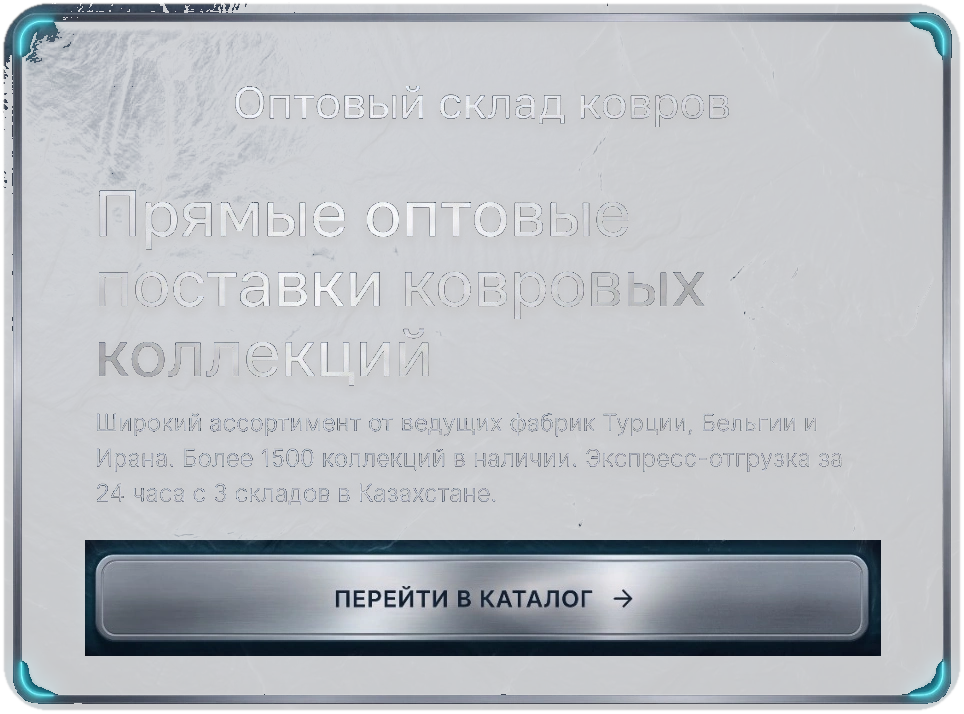
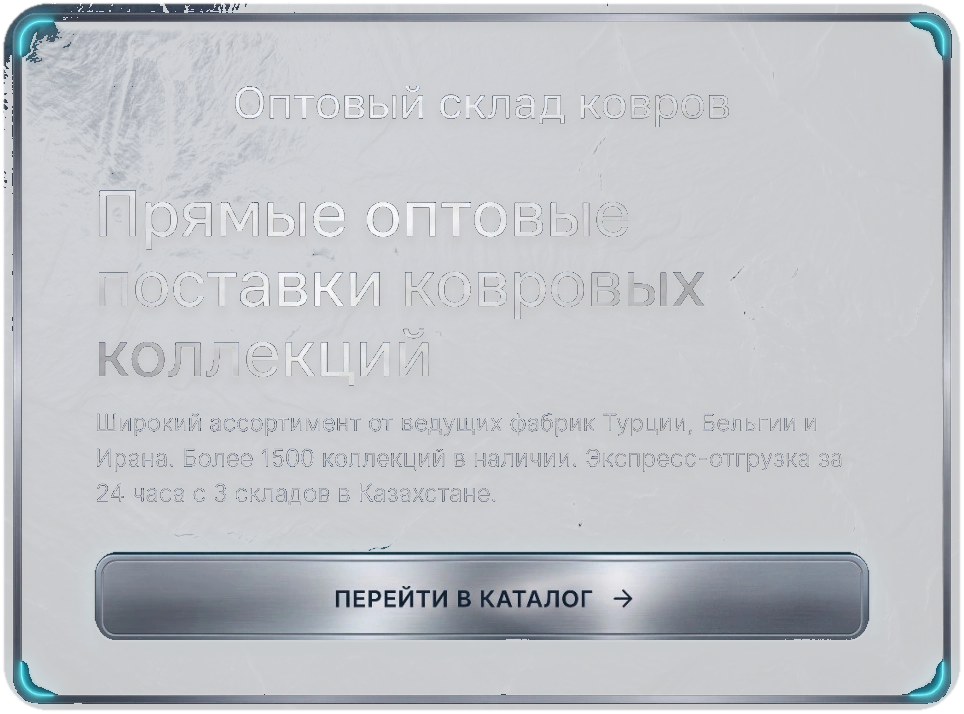
fix(ui): normalize mobile button proportions to 44px slim titanium and remove bright blue border around desktop card CTA

Changed region(s): [[0.0622, 0.7395, 0.9336, 0.9244]]

diff --git a/src/components/home/TechnoLuxuryButton.tsx b/src/components/home/TechnoLuxuryButton.tsx
@@ -12,12 +12,12 @@ interface TechnoLuxuryButtonProps {
 
 /**
  * TechnoLuxuryButton
- * Implements the exact "Техно-Люкс" (Techno-Luxury Interface) design system from reference:
- * - Deep midnight navy outer chassis with atmospheric ambient shadow
- * - Outer sculpted polished steel bezel with top specular chamfer
- * - Recessed electric cyan neon trim groove (#00FBFF) with intense dual-sided glow
- * - Tactile central brushed steel plate with horizontal anisotropic texture
- * - Crisp stamped dark graphite typography (#1A1F2B) with letterpress bevel
+ * Normalized luxury industrial ergonomics (Apple Titanium / Swiss Horology standards):
+ * - Slim 44px mobile height (balanced visual weight, no bulky aggressive bumper)
+ * - Proportional 14px rounded geometry
+ * - Hairline 1px radiant cyan inner contour with elegant, non-blinding luminescence
+ * - Tactile brushed steel metal face with physical specular highlight
+ * - Engraved dark graphite typography (#16202E) with stamped letterpress bevel
  */
 export default function TechnoLuxuryButton({
   onClick,
@@ -33,102 +33,63 @@ export default function TechnoLuxuryButton({
       onTouchStart={onTouchStart}
       onTouchMove={onTouchMove}
       onClick={onClick}
-      className={`group relative w-full block cursor-pointer select-none transition-transform duration-200 transform-gpu active:scale-[0.985] hover:scale-[1.008] ${className}`}
+      className={`group relative w-full block cursor-pointer select-none transition-all duration-200 transform-gpu active:scale-[0.985] hover:scale-[1.008] ${className}`}
     >
-      {/* ── 1. Outermost Chassis (Midnight Navy #0A1428 / Dark Graphite Bezel) ── */}
+      {/* ── 1. Slim Titanium Outer Bezel (Hairline chamfer with subtle cyan ambient glow) ── */}
       <div 
-        className="relative rounded-[26px] p-[4px] bg-gradient-to-b from-[#222E42] via-[#111A29] to-[#080D16] shadow-[0_16px_36px_rgba(0,0,0,0.85),0_4px_12px_rgba(0,0,0,0.6)]"
+        className="relative rounded-[16px] p-[1.5px] transition-all duration-300"
+        style={{
+          background: 'linear-gradient(180deg, #4A586E 0%, #1E2838 50%, #0C121D 100%)',
+          boxShadow: '0 4px 14px rgba(0, 0, 0, 0.55), 0 0 10px rgba(0, 251, 255, 0.35)',
+        }}
       >
-        {/* Atmospheric Cyan Aura spilling from behind the chassis */}
+        {/* ── 2. Delicate Hairline Cyan Trim Groove (#00FBFF) ── */}
         <div 
-          aria-hidden="true"
-          className="absolute -inset-1 rounded-[28px] opacity-40 group-hover:opacity-70 transition-opacity duration-300 blur-md pointer-events-none -z-10"
+          className="relative rounded-[14.5px] p-[1px] transition-all duration-300"
           style={{
-            background: 'radial-gradient(ellipse at center, rgba(0, 251, 255, 0.45) 0%, rgba(0, 251, 255, 0) 75%)',
-          }}
-        />
-
-        {/* ── 2. Outer Sculpted Steel Rim (Хромированная / Стальная внешняя фаска) ── */}
-        <div 
-          className="relative rounded-[22px] p-[3.5px] shadow-[inset_0_1px_1.5px_rgba(255,255,255,0.9),inset_0_-2px_4px_rgba(0,0,0,0.6)]"
-          style={{
-            background: 'linear-gradient(180deg, #E6EBF0 0%, #B8C2CC 45%, #6C7684 100%)',
+            background: 'linear-gradient(180deg, #5FFFFF 0%, #00FBFF 50%, #00C8D2 100%)',
+            boxShadow: '0 0 6px rgba(0, 251, 255, 0.5), inset 0 0 3px rgba(0, 251, 255, 0.6)',
           }}
         >
-          {/* Subtle dark recess separator before neon channel */}
-          <div className="relative rounded-[18.5px] p-[1.5px] bg-[#070D18]">
+          {/* Micro dark separator */}
+          <div className="relative rounded-[13.5px] p-[1px] bg-slate-950/80">
             
-            {/* ── 3. Recessed Radiant Cyan Neon Channel (#00FBFF) ── */}
+            {/* ── 3. Tactile Brushed Steel Face (Refined 40px inner height) ── */}
             <div 
-              className="relative rounded-[17px] p-[2.5px] transition-all duration-300"
+              className="relative w-full h-[40px] sm:h-[42px] rounded-[12px] px-4 flex items-center justify-center gap-2 overflow-hidden bg-cover bg-center transition-all duration-200"
               style={{
-                background: 'linear-gradient(180deg, #62FFFF 0%, #00FBFF 48%, #00BCD4 100%)',
-                boxShadow: '0 0 12px #00FBFF, 0 0 24px rgba(0, 251, 255, 0.7), 0 0 40px rgba(0, 251, 255, 0.35), inset 0 0 6px #00FBFF',
+                backgroundImage: "url('/images/brushed_steel_plate.webp')",
+                boxShadow: 'inset 0 1px 1px rgba(255,255,255,0.9), inset 0 -1px 2px rgba(0,0,0,0.35)',
               }}
             >
-              {/* Inner dark chamfer separating glow from brushed face */}
-              <div className="relative rounded-[14.5px] p-[1px] bg-[#09111D]/80">
-                
-                {/* ── 4. Central Brushed Steel Plate (Лицевая панель шлифованной стали) ── */}
-                <div 
-                  className="relative w-full rounded-[13.5px] py-4 px-5 sm:px-6 flex items-center justify-center gap-3 overflow-hidden bg-cover bg-center transition-all duration-300"
+              {/* Interactive light sheen on hover */}
+              <div 
+                aria-hidden="true"
+                className="absolute inset-0 bg-gradient-to-r from-transparent via-white/25 to-transparent -translate-x-full group-hover:translate-x-full transition-transform duration-700 ease-out pointer-events-none" 
+              />
+
+              {/* ── 4. Stamped Dark Graphite Typography (#16202E) ── */}
+              <div className="relative z-10 flex items-center justify-center gap-2 text-center">
+                <span 
+                  className="font-display text-[11px] sm:text-xs font-bold uppercase tracking-[0.14em] text-[#16202E]"
                   style={{
-                    backgroundImage: "url('/images/brushed_steel_plate.webp')",
-                    boxShadow: 'inset 0 1.5px 1.5px rgba(255,255,255,0.95), inset 0 -2px 3px rgba(0,0,0,0.45)',
+                    textShadow: '0 1px 0 rgba(255, 255, 255, 0.85), 0 -0.5px 0 rgba(0, 0, 0, 0.2)',
                   }}
                 >
-                  {/* Subtle anisotropic radial light highlight in center-right */}
-                  <div 
-                    aria-hidden="true"
-                    className="absolute inset-0 pointer-events-none mix-blend-overlay opacity-30"
-                    style={{
-                      background: 'radial-gradient(ellipse at 65% 50%, rgba(255,255,255,0.9) 0%, rgba(255,255,255,0) 65%)',
-                    }}
-                  />
+                  {text}
+                </span>
 
-                  {/* Dynamic interactive light sheen that glides on hover */}
-                  <div 
-                    aria-hidden="true"
-                    className="absolute inset-0 bg-gradient-to-r from-transparent via-white/30 to-transparent -translate-x-full group-hover:translate-x-full transition-transform duration-1000 ease-out pointer-events-none" 
-                  />
-
-                  {/* ── 5. Stamped Dark Graphite Typography (#1A1F2B) ── */}
-                  <div className="relative z-10 flex items-center justify-center gap-2.5 sm:gap-3 text-center">
-                    <div className="flex flex-col items-center">
-                      <span 
-                        className="font-display text-xs sm:text-sm font-extrabold uppercase tracking-[0.16em] text-[#1A1F2B]"
-                        style={{
-                          textShadow: '0 1px 0 rgba(255, 255, 255, 0.9), 0 -0.5px 0 rgba(0, 0, 0, 0.3)',
-                        }}
-                      >
-                        {text}
-                      </span>
-                      {subtext && (
-                        <span 
-                          className="font-mono text-[9px] sm:text-[10px] uppercase tracking-widest text-[#2D3748] mt-0.5"
-                          style={{
-                            textShadow: '0 1px 0 rgba(255, 255, 255, 0.7)',
-                          }}
-                        >
-                          {subtext}
-                        </span>
-                      )}
-                    </div>
-
-                    <div 
-                      className="inline-flex items-center justify-center transition-transform duration-300 group-hover:translate-x-1"
-                      style={{
-                        filter: 'drop-shadow(0 1px 0 rgba(255, 255, 255, 0.9)) drop-shadow(0 -0.5px 0 rgba(0, 0, 0, 0.3))',
-                      }}
-                    >
-                      <ArrowRight className="w-4 h-4 sm:w-4.5 sm:h-4.5 text-[#1A1F2B] stroke-[2.75]" />
-                    </div>
-                  </div>
-
+                <div 
+                  className="inline-flex items-center justify-center transition-transform duration-200 group-hover:translate-x-1"
+                  style={{
+                    filter: 'drop-shadow(0 1px 0 rgba(255, 255, 255, 0.85))',
+                  }}
+                >
+                  <ArrowRight className="w-3.5 h-3.5 text-[#16202E] stroke-[2.75]" />
                 </div>
               </div>
-            </div>
 
+            </div>
           </div>
         </div>
 

diff --git a/src/pages/HomePage.tsx b/src/pages/HomePage.tsx
@@ -104,8 +104,8 @@ export default function HomePage({
       {/* ── Hero Video Banner (Pure animation + Harmonious End-State CTA) ── */}
       <section className="relative w-full bg-slate-950 pt-16 sm:pt-20 lg:pt-24">
         <HeroBannerMedia onNavigate={onNavigate} isReady={isReady} />
-        {/* Mobile Action Bar: Techno-Luxury button on dark canvas under video */}
-        <div className="block sm:hidden px-4 pt-1 pb-11 select-none relative z-20">
+        {/* Mobile Action Bar: Sleek normalized Techno-Luxury button */}
+        <div className="block sm:hidden px-5 py-3.5 max-w-md mx-auto select-none relative z-20">
           <TechnoLuxuryButton
             onTouchStart={handleTouchStart}
             onTouchMove={handleTouchMove}
